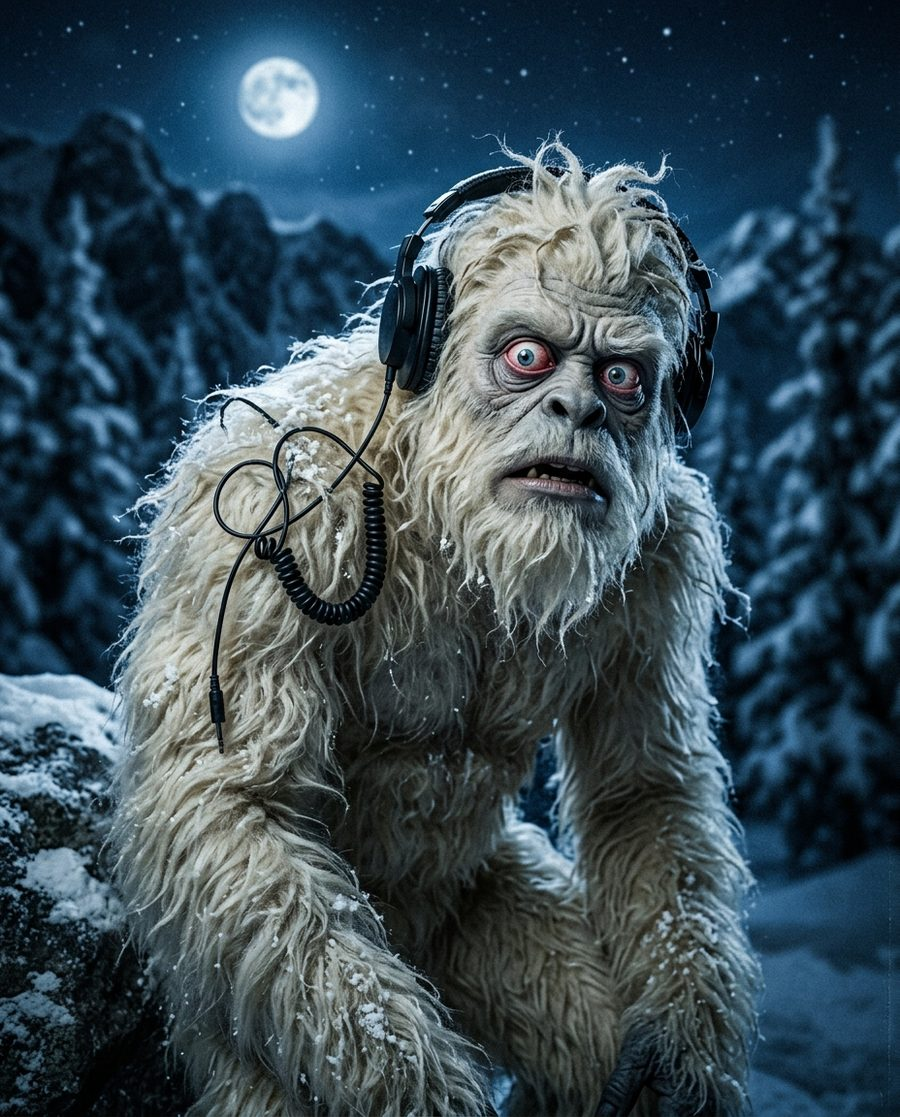
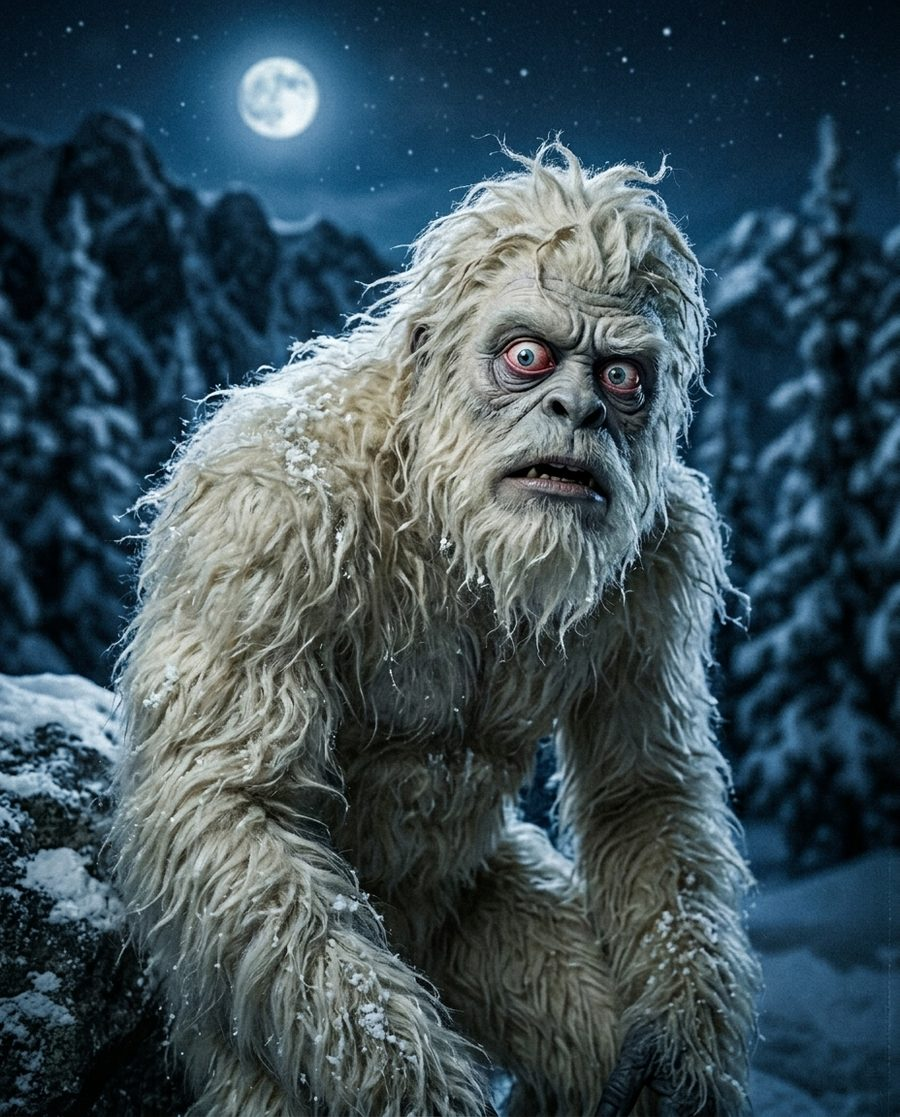
Atualiza imagem 'sem protocolo' sem fone de ouvido
Faz mais sentido narrativamente: o fone é o que o protocolo
entrega, então não devia aparecer no lado 'antes'.

diff --git a/index.html b/index.html
@@ -46,7 +46,7 @@
       <div class="compare__side compare__side--before">
         <span class="compare__label">Sem protocolo</span>
         <div class="compare__photo">
-          <img src="assets/sem-protocolo.jpg" alt="Figura de olhos abertos e tensos, acordada de madrugada, fone desconectado" loading="lazy">
+          <img src="assets/sem-protocolo.jpg" alt="Figura de olhos abertos e tensos, acordada de madrugada, sem fone de ouvido" loading="lazy">
         </div>
         <svg class="compare__wave" viewBox="0 0 300 60" preserveAspectRatio="none" aria-hidden="true">
           <polyline points="0,30 15,10 30,48 45,8 60,50 75,12 90,45 105,15 120,42 135,5 150,48 165,10 180,45 195,8 210,40 225,15 240,48 255,10 270,42 285,18 300,30" />
